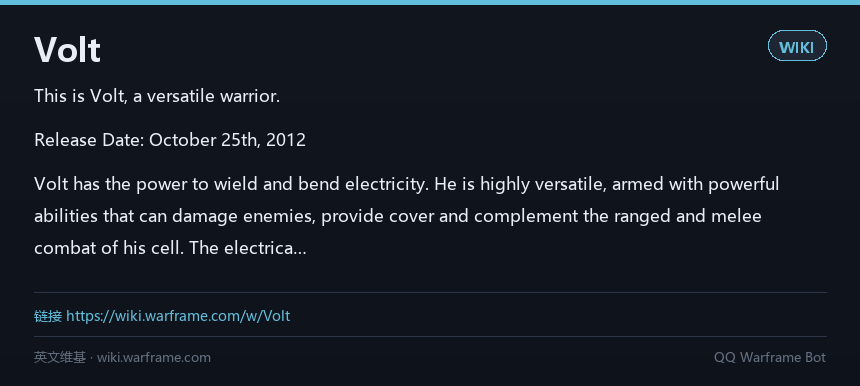
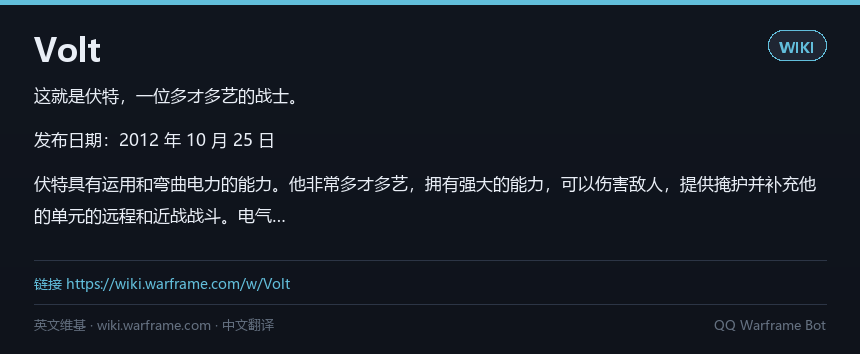
Translate English wiki summaries into Chinese cards

diff --git a/bot/translate.py b/bot/translate.py
@@ -1,0 +1,142 @@
+"""轻量英文 -> 中文翻译。
+
+优先 Google 的公开 translate_a/single 端点（可走 Wiki 代理），
+失败后用 MyMemory 免费接口（支持直连）。结果缓存 24 小时。
+"""
+
+from __future__ import annotations
+
+import html
+import logging
+import urllib.parse
+from typing import Any, Dict, List, Optional
+
+from .cache import TTLCache
+from .net import HttpClient, HttpError
+
+LOGGER = logging.getLogger("qqwarframe.translate")
+GOOGLE_URL = "https://translate.googleapis.com/translate_a/single"
+MYMEMORY_URL = "https://api.mymemory.translated.net/get"
+
+
+class TranslateError(Exception):
+    pass
+
+
+class Translator:
+    def __init__(self, config: Dict[str, Any],
+                 cache_config: Optional[Dict[str, Any]] = None,
+                 logger: Optional[logging.Logger] = None,
+                 http: Optional[HttpClient] = None):
+        cfg = config or {}
+        self.log = logger or LOGGER
+        self.cache = TTLCache(cache_config or {}, prefix="translate")
+        self.cache_seconds = int(cfg.get("translate_seconds", 86400))
+        self.timeout = int(cfg.get("timeout_seconds", 15))
+        self.proxy = str(cfg.get("proxy") or "")
+        self.proxy_mode = str(cfg.get("proxy_mode") or "auto").lower()
+        self._clients: List[HttpClient] = []
+        if http is not None:
+            self._clients = [http]
+        else:
+            proxies = [self.proxy]
+            if self.proxy_mode == "auto" and "none" not in proxies:
+                proxies.append("none")
+            for proxy in proxies:
+                if proxy in ("", "none"):
+                    proxy = "none"
+                self._clients.append(HttpClient(
+                    user_agent=cfg.get("user_agent", "Mozilla/5.0"),
+                    timeout=self.timeout, proxy=proxy, retries=0,
+                    logger=self.log))
+        self.http = self._clients[0]
+
+    @staticmethod
+    def _chunks(text: str, limit: int = 1200) -> List[str]:
+        text = str(text or "").strip()
+        if len(text) <= limit:
+            return [text] if text else []
+        chunks: List[str] = []
+        current = ""
+        for line in text.splitlines(True):
+            if len(current) + len(line) > limit and current:
+                chunks.append(current)
+                current = ""
+            while len(line) > limit:
+                chunks.append(line[:limit])
+                line = line[limit:]
+            current += line
+        if current:
+            chunks.append(current)
+        return chunks
+
+    def _google(self, text: str, client: HttpClient) -> str:
+        query = {
+            "client": "gtx", "sl": "en", "tl": "zh-CN",
+            "dt": "t", "q": text,
+        }
+        url = GOOGLE_URL + "?" + urllib.parse.urlencode(query)
+        data = client.get_json(url, headers={
+            "Accept": "application/json",
+            "User-Agent": "Mozilla/5.0",
+        })
+        if not isinstance(data, list) or not data or not isinstance(data[0], list):
+            raise TranslateError("Google 翻译返回格式异常。")
+        parts = [str(row[0]) for row in data[0]
+                 if isinstance(row, list) and row and row[0]]
+        if not parts:
+            raise TranslateError("Google 翻译没有返回文本。")
+        return "".join(parts).strip()
+
+    def _mymemory(self, text: str) -> str:
+        query = urllib.parse.urlencode({
+            "q": text, "langpair": "en|zh-CN",
+        })
+        url = MYMEMORY_URL + "?" + query
+        last_error = None
+        for client in self._clients:
+            try:
+                data = client.get_json(url, headers={
+                    "Accept": "application/json",
+                    "User-Agent": "Mozilla/5.0",
+                })
+                if not isinstance(data, dict):
+                    continue
+                payload = data.get("responseData") or {}
+                translated = str(payload.get("translatedText") or "").strip()
+                if translated:
+                    return html.unescape(translated)
+            except Exception as exc:
+                last_error = exc
+        raise TranslateError("MyMemory 翻译失败：%s" % last_error)
+
+    def translate(self, text: str) -> str:
+        raw = str(text or "").strip()
+        if not raw:
+            return ""
+        key = ("en-zh", raw[:800])
+        cached = self.cache.get(key)
+        if cached is not None:
+            return str(cached)
+        translated_parts = []
+        for chunk in self._chunks(raw):
+            result = None
+            last_error = None
+            # Google 优先；不同代理线路各试一次。
+            for client in self._clients:
+                try:
+                    result = self._google(chunk, client)
+                    break
+                except (HttpError, TranslateError, Exception) as exc:
+                    last_error = exc
+            if not result:
+                try:
+                    result = self._mymemory(chunk)
+                except TranslateError as exc:
+                    self.log.warning("翻译失败：%s（%s）", exc, last_error)
+                    raise
+            translated_parts.append(result)
+        translated = "\n".join(translated_parts).strip()
+        if translated:
+            self.cache.set(key, translated, self.cache_seconds)
+        return translated

diff --git a/bot/commands.py b/bot/commands.py
@@ -145,11 +145,13 @@ class CommandRouter:
                  worldstate: Optional[WorldStateClient] = None,
                  alerts: Optional[AlertStore] = None,
                  arbi: Optional[ArbiClient] = None,
-                 updater: Optional[DataUpdater] = None):
+                 updater: Optional[DataUpdater] = None,
+                 translator=None):
         self.market = market
         self.wiki = wiki
         self.cfg = config
         self.log = logger or LOGGER
+        self.translator = translator
         self.prefixes = list(config.get("behavior", {}).get("prefixes") or ["#"])
         self.top_orders = int(config.get("warframe_market", {}).get("top_orders", 5))
         self.price_orders = int(config.get("warframe_market", {}).get("price_orders", 8))
@@ -738,7 +740,19 @@ class CommandRouter:
                 "· https://warframe.fandom.com/wiki/%s\n"
                 "可换一个能通过验证的代理（wiki.proxy），或稍后再试。"
                 % (exc, keyword, keyword))
-        return present.wiki_reply(argument, page, hits)
+        return present.wiki_reply(argument, page, hits,
+                                  translated=self._translate_wiki(page))
+
+    def _translate_wiki(self, page) -> str:
+        if page is None or self.translator is None:
+            return ""
+        if not bool(self.cfg.get("wiki", {}).get("translate", True)):
+            return ""
+        try:
+            return self.translator.translate(page.extract)
+        except Exception as exc:
+            self.log.warning("Wiki 中文翻译失败：%s", exc)
+            return ""
 
 
 def strip_cq(text: str) -> str:

diff --git a/tests/test_translate.py b/tests/test_translate.py
@@ -1,0 +1,41 @@
+import unittest
+
+from bot.translate import TranslateError, Translator
+
+
+class FakeGoogle:
+    def __init__(self):
+        self.urls = []
+
+    def get_json(self, url, headers=None):
+        self.urls.append(url)
+        return [[["这就是伏特。", "This is Volt.", None]], None, "en"]
+
+
+class FakeMyMemory:
+    def get_json(self, url, headers=None):
+        if "translate.googleapis" in url:
+            raise TranslateError("blocked")
+        return {"responseData": {"translatedText": "这是伏特。"}}
+
+class TranslatorTest(unittest.TestCase):
+    def test_google_translation(self):
+        fake = FakeGoogle()
+        translator = Translator({"proxy": "none", "translate_seconds": 10},
+                                cache_config={"enabled": False}, http=fake)
+        self.assertEqual(translator.translate("This is Volt."), "这就是伏特。")
+        self.assertIn("translate.googleapis", fake.urls[0])
+
+    def test_mymemory_fallback(self):
+        translator = Translator({"proxy": "none", "translate_seconds": 10},
+                                cache_config={"enabled": False},
+                                http=FakeMyMemory())
+        self.assertEqual(translator.translate("This is Volt."), "这是伏特。")
+
+    def test_empty(self):
+        translator = Translator({"proxy": "none"}, http=FakeGoogle())
+        self.assertEqual(translator.translate(""), "")
+
+
+if __name__ == "__main__":
+    unittest.main()

diff --git a/bot/app.py b/bot/app.py
@@ -26,6 +26,7 @@ from .onebot import OneBotClient, OneBotError, escape_cq
 from .replies import Reply
 from .render import chunk_text
 from .riven import RivenClient
+from .translate import Translator
 from .update import UpdateChecker
 from .updater import DataUpdater
 from .web import AdminServer
@@ -81,6 +82,9 @@ class BotApp:
         self.alias_store.ensure_component_defaults()
         self.wiki = WikiClient(config.get("wiki", {}), logger=self.log,
                                cache_config=config.get("cache", {}))
+        self.translator = Translator(
+            config.get("wiki", {}), cache_config=config.get("cache", {}),
+            logger=self.log)
         self.riven = RivenClient(
             self.market, self.log,
             cache_config=config.get("cache", {}),
@@ -113,7 +117,8 @@ class BotApp:
         self.router = CommandRouter(
             self.market, self.wiki, config, logger=self.log,
             riven=self.riven, worldstate=self.worldstate, alerts=self.alerts,
-            arbi=self.arbi, updater=self.updater)
+            arbi=self.arbi, updater=self.updater,
+            translator=self.translator)
         self.onebot = OneBotClient(config.get("onebot", {}), self.on_event, logger=self.log)
         self.image_http = HttpClient(timeout=15, retries=0, proxy="none",
                                      logger=self.log)

diff --git a/bot/present.py b/bot/present.py
@@ -993,8 +993,8 @@ def worldstate_reply(data: dict) -> Reply:
 
 # ---------------------------------------------------------------------- 维基
 def wiki_reply(query: str, page: Optional[WikiPage],
-               hits: Sequence[WikiHit]) -> Reply:
-    text = render.render_wiki(query, page, hits)
+               hits: Sequence[WikiHit], translated: str = "") -> Reply:
+    text = render.render_wiki(query, page, hits, translated)
     if page is None:
         from urllib.parse import quote
         search_url = ("https://wiki.warframe.com/w/Special:Search?search="
@@ -1007,9 +1007,11 @@ def wiki_reply(query: str, page: Optional[WikiPage],
                 "可以换英文名或更短的关键词，例如 Volt、Rubico、Riven Mod。",
                 search_url, "英文维基 · wiki.warframe.com"))
     label = render.wiki_label(page.url)
+    footer = "%s · wiki.warframe.com" % label
+    if translated:
+        footer += " · 中文翻译"
     return Reply(text=text, image=lambda: imagecard.wiki_card(
-        page.title, page.extract, page.url,
-        "%s · wiki.warframe.com" % label))
+        page.title, translated or page.extract, page.url, footer))
 
 
 # ---------------------------------------------------------------------- 提醒

diff --git a/bot/render.py b/bot/render.py
@@ -202,7 +202,7 @@ def wiki_label(url: str = "") -> str:
 
 
 def render_wiki(query: str, page: Optional[WikiPage],
-                hits: Sequence[WikiHit] = ()) -> str:
+                hits: Sequence[WikiHit] = (), translated: str = "") -> str:
     if page is None:
         from urllib.parse import quote
         search = ("https://wiki.warframe.com/w/Special:Search?search="
@@ -212,7 +212,12 @@ def render_wiki(query: str, page: Optional[WikiPage],
                 "· 也可以直接搜索：%s" % (query, search))
 
     label = wiki_label(page.url)
-    lines = ["【%s】%s" % (page.title, label), "", page.extract, "", page.url]
+    lines = ["【%s】%s" % (page.title, label), ""]
+    if translated:
+        lines.extend(["中文翻译：", translated, "", "英文原文：", page.extract])
+    else:
+        lines.extend([page.extract])
+    lines.extend(["", page.url])
     others = [hit for hit in hits if hit.title != page.title][:3]
     if others:
         lines.append("")

diff --git a/bot/config.py b/bot/config.py
@@ -64,6 +64,8 @@ DEFAULTS: Dict[str, Any] = {
         "proxy_mode": "auto",
         "proxy_fallbacks": ["none"],
         "summary_chars": 280,
+        "translate": True,
+        "translate_seconds": 86400,
         "fallback_fandom": True,
         "fandom_api": "https://warframe.fandom.com/api.php",
         "fallback_bwiki": False,

diff --git a/LINUX.md b/LINUX.md
@@ -193,10 +193,11 @@ docker run -d --name napcat --restart unless-stopped \
 
 ```bash
 ./check.sh                              # 联网自检
-python3 -m unittest discover -s tests -t .   # 313 个离线测试
+python3 -m unittest discover -s tests -t .   # 316 个离线测试
 ```
 
 自检里维基可能显示 `WARN`（Cloudflare/WAF 拦截），不影响市场、图片、提醒等功能。
+
 
 
 
